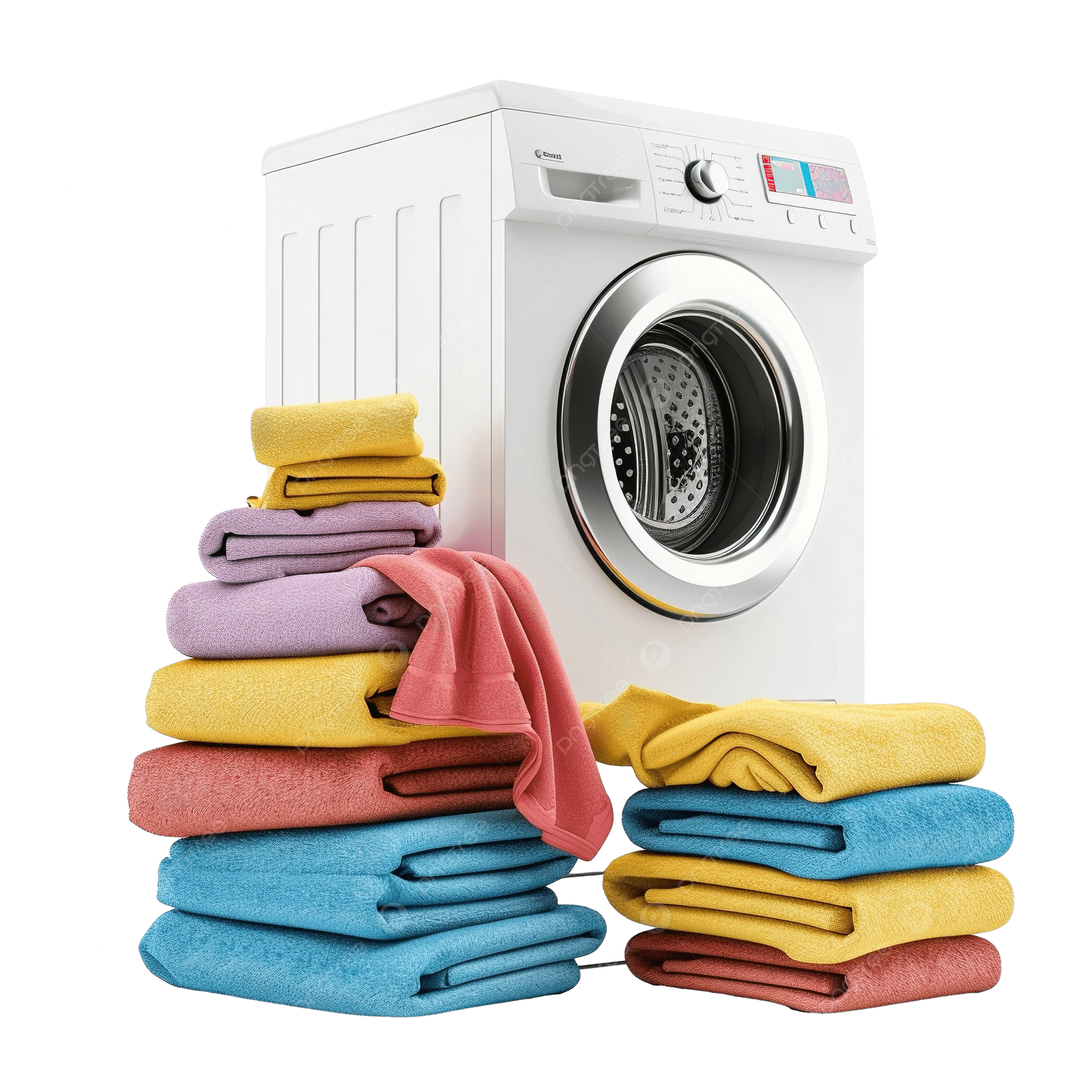
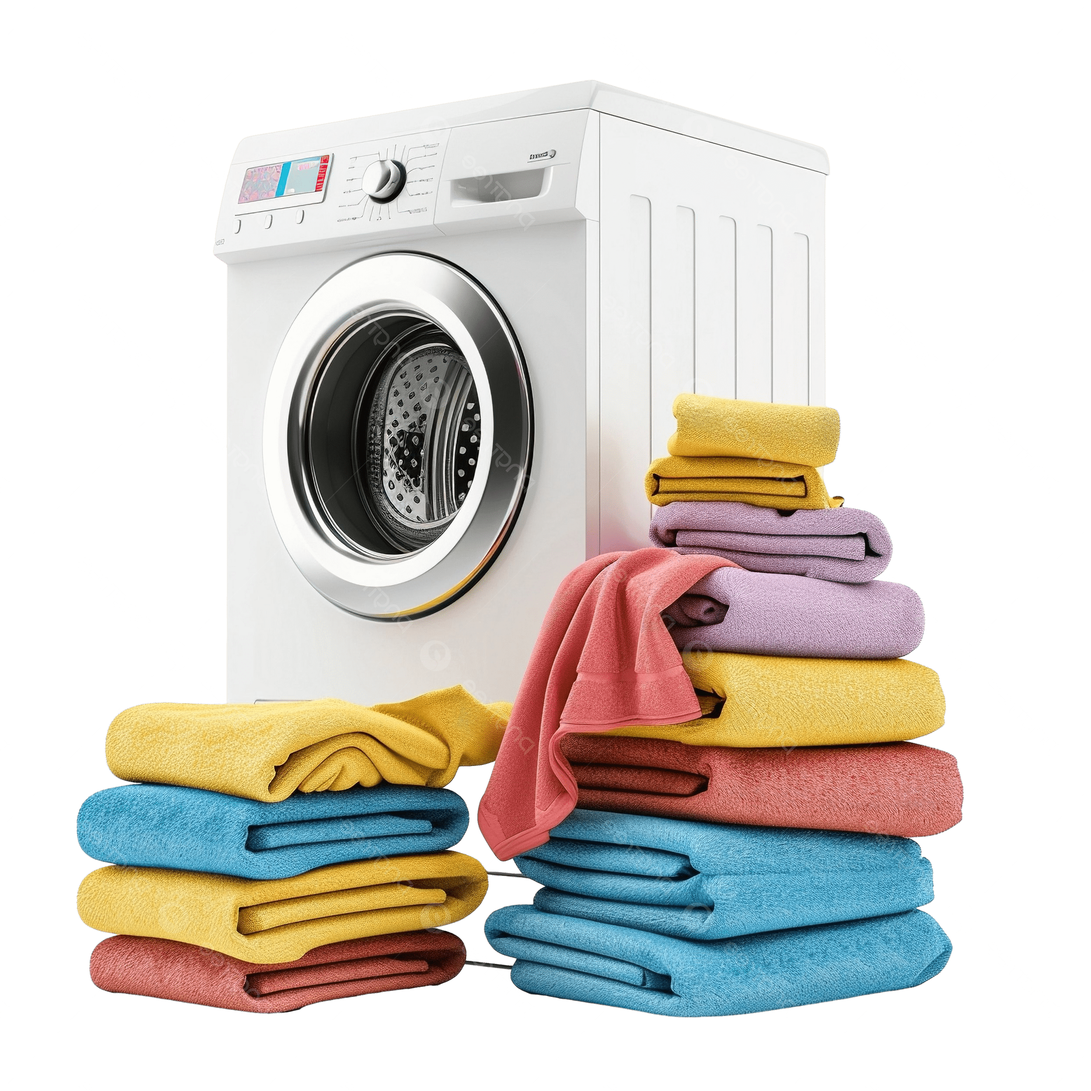
add hero image animation

diff --git a/style.css b/style.css
@@ -136,12 +136,16 @@ nav {
 .hero-image {
   height: 75%;
   width: 80%;
-  transform: scaleX(-1);
+  /* transform: scaleX(-1); */
   margin-left: -40px;
+  animation-name: squeezedImage;
+  animation-duration: 2s;
+  animation-delay: 0.5s;
+  animation-iteration-count: infinite;
 }
 .hamburger-container {
   display: none;
-  flex-direction: column; 
+  flex-direction: column;
   justify-content: space-between;
   width: 30px;
   height: 21px;
@@ -153,7 +157,7 @@ nav {
 
 .line {
   width: 100%;
-  height: 3px; 
+  height: 3px;
   background-color: #333;
   border-radius: 5px;
   transition: 0.3s;
@@ -203,6 +207,30 @@ nav {
 .sidebar-menu > li > a {
   color: #fff;
   text-decoration: none;
+}
+
+/* hero section image animation */
+
+@keyframes squeezedImage {
+  0% {
+    transform: translate(0, 0);
+  }
+
+  25% {
+    transform: translate(30px, 0);
+  }
+
+  50% {
+    transform: translate(30px, 30px); /* squeeze here */
+  }
+
+  75% {
+    transform: translate(0, 30px)  scale(0.8, 1.1);
+  }
+
+  100% {
+    transform: translate(0, 0);
+  }
 }
 
 /* for small laptops */

diff --git a/README.md b/README.md
@@ -24,5 +24,6 @@ I used a Desktop-First approach and then "broke" the design at specific widths t
 What I Learned
 The biggest takeaway for me was learning how to balance font sizes across different screen sizes. It’s one thing to make a site "fit" on a phone, but it's another thing to make it actually usable and readable. I also practiced using CSS variables (:root) to make it easier to change the color scheme (like the "main-blue" and "bg-color") in one place instead of hunting through 200 lines of code. I also learned that the Sibling Selector (+) in CSS is really sensitive—the checkbox has to come before the sidebar in the HTML or it won't work.
 I use a transition effer in book now button which scale and rotate btn on hover.
+I use @keyfram to animate the Hero section logo.
 
 This is the Live Host Link: https://task5-three-beta.vercel.app/
